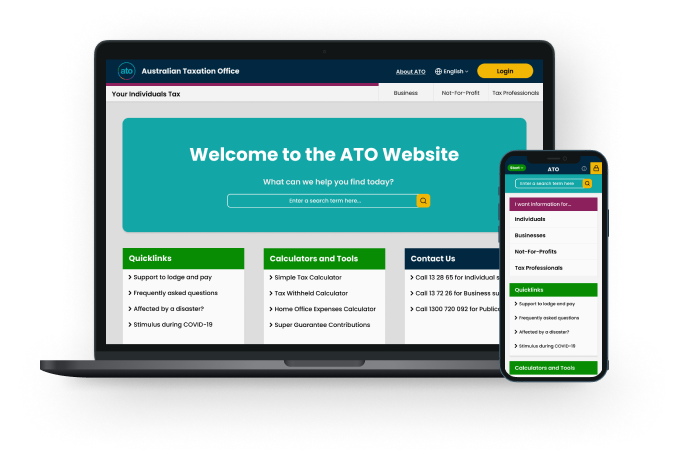
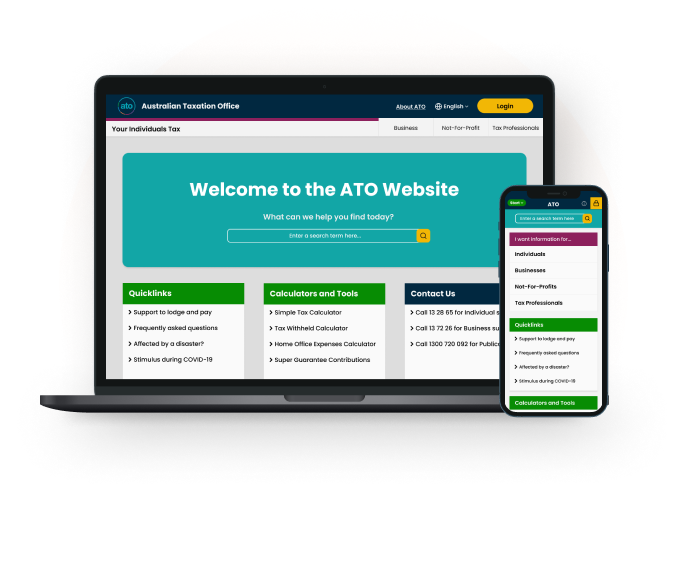
Modified backgrounds

diff --git a/css/style.css b/css/style.css
@@ -20,6 +20,8 @@ h1 {
     font-size: 12vw;
     font-weight: 500;
     line-height: 0;
+    color: #FCF2EC;
+    filter: drop-shadow(0 1vh 1vh rgba(17, 17, 17, 0.1));
 }
 
 h2 {
@@ -30,7 +32,6 @@ h2 {
     font-weight: 500;
     line-height: 0;
     text-align: center;
-    /* color: #00199F; */
 }
 
 h3 {
@@ -96,23 +97,75 @@ p {
     color: #FCF2EC;
 }
 
+.darkSeashell {
+    color: #E5D2C7;
+}
+
+.green {
+    color: #A7CAB3;
+}
+
+.lilac{
+    color: #7988DA;
+}
+
+.black{
+    color:#111111;
+}
+
 /* Logo and Menu */
 .logo {
     position: fixed;
-    top: 8vh;
+    top: 10vh;
     left: 8vh;
+    z-index:99999;
 }
 
-.menu {
+.menuDropdown {
     position: fixed;
-    top: 8vh;
+    top: 10vh;
     right: 10vh;
+    z-index:99999;
+    display: flex;
+    flex-direction: column;
+    align-items: flex-end;
 }
+
+.menuContent {
+    display: none;
+}
+
+.menuDropdown:hover .menuContent {
+    display: block;
+}
+
+.menuContent a {
+    display: flex;
+    flex-direction: column;
+    justify-content: center;
+    align-items: flex-end;
+    padding: 0.5vw 0.5vw 0.5vw 0vw;
+    background-color: rgba(17, 17, 17, 20%);
+    height: 6vh;
+    width: 8vw;
+    font-family: 'Kobe1.1';
+    font-size: 1.7vw;
+    font-weight: 10;
+    line-height: 5%;
+    color: #FCF2EC;
+    text-decoration: none;
+}
+
+.menuContent a:hover,
+.menuContent a:focus {
+    background-color: #00199F;
+}
+
 
 /* Hero Section */
 .heroSection {
     top: 0;
-    background-color: #111111;
+    background-image: linear-gradient(#111111, #2e2b29);
     height: 110vh;
     display: flex;
     justify-content: center;
@@ -138,7 +191,7 @@ p {
     align-items: center;
     height: 50vh;
     width: 80vw;
-    padding-top: 25vh;
+    padding-top: 20vh;
 }
 
 .tabTop {
@@ -202,7 +255,7 @@ p {
 
 button {
     margin-top: 3vh;
-    background-color: #FFF3EC;
+    background-color: #00199F;
     border: 0;
     height: 8vh;
     width: 22vw;
@@ -210,7 +263,6 @@ button {
     font-family: 'HK Grotesk';
     font-size: 1.4vw;
     font-weight: 600;
-    color: #00199F;
     display: flex;
     align-items: center;
     justify-content: center;
@@ -222,7 +274,7 @@ button img {
 
 /* Skills Section */
 .mySkills {
-    background-color: #FCF2EC;
+    background-image: linear-gradient(#D7C6BB, #DBC8BE);
     height: 100vh;
     display: flex;
     flex-direction: column;
@@ -258,7 +310,7 @@ button img {
     align-items: center;
 }
 
-.right{
+.right {
     padding-top: 8vh;
 }
 
@@ -274,7 +326,7 @@ button img {
 
 /* Selected Work */
 .selectedWork {
-    background-color: #FCF2EC;
+    background-image: linear-gradient(#DBC8BE, #E3D0C6);
     height: 15vh;
     padding-top: 12vh;
     padding-bottom: 6vh;
@@ -285,7 +337,7 @@ button img {
 
 /* Case Study A */
 .caseStudyA {
-    background-color: #FCF2EC;
+    background-image: linear-gradient(#E3D0C6, #E4D1C6);
     height: 120vh;
 }
 
@@ -302,11 +354,16 @@ button img {
 .archContent {
     width: 50vw;
     height: 80vh;
-    padding-top: 26vh;
+    padding-top: 20vh;
     display: flex;
     flex-direction: column;
     align-items: center;
     justify-content: center;
+}
+
+.archContent img{
+    margin-top: 3vh;
+    margin-bottom: -12vh;
 }
 
 .devices {
@@ -339,17 +396,23 @@ button img {
 /* Case Study C */
 .caseStudyC {
     background-color: #7988DA;
-    height: 120vh;
+    height: 130vh;
 }
 
 .caseArchC {
     background-color: #00072A;
-    height: 120vh;
+    height: 110vh;
     border-top-left-radius: 100vw;
     border-top-right-radius: 100vw;
     display: flex;
     align-items: flex-start;
     justify-content: center;
+}
+
+.endCase {
+    width: 100vw;
+    height: 20vh;
+    background-color: #00072A;
 }
 
 /* Footer */
@@ -358,7 +421,7 @@ footer {
     height: 100vh;
 }
 
-.footerHero{
+.footerHero {
     height: 65vh;
     display: flex;
     flex-direction: column;
@@ -371,7 +434,7 @@ footer {
     height: auto;
 }
 
-.linksGroup{
+.linksGroup {
     margin-top: 3vh;
     width: 50vw;
     display: flex;
@@ -380,26 +443,26 @@ footer {
     align-items: center;
 }
 
-.link{
+.link {
     display: flex;
     flex-direction: row;
     justify-content: flex-end;
     align-items: center;
 }
 
-footer h6{
+footer h6 {
     margin-top: 1vh;
     margin-right: 0.2vw;
     margin-left: 0.6vw;
 }
 
-footer h7{
+footer h7 {
     margin-bottom: 1.3vh;
     margin-right: 0.2vw;
     margin-left: 0.6vw;
 }
 
-.copyright{
+.copyright {
     width: 95vw;
     display: flex;
     flex-direction: row;

diff --git a/index.html b/index.html
@@ -10,17 +10,16 @@
     <header></header>
 
     <section class="nav">
-        <div class="logo">
-            <img src="images/logo.png" alt="Mai Logo">
-        </div>
-        <div class="menu">
-            <img src="images/menu.png" alt="menu">
-            <!-- <ul>
-                    <li>About Me</li>
-                    <li>Skills</li>
-                    <li>My Work</li>
-                    <li>Contact</li>
-                </ul> -->
+        <a class="logo"><img src="images/logo.png" alt="Mai Logo"></a>
+        <div class="menuDropdown">
+            <img class="menuImg" src="images/menu.png" alt="menu">
+            <div class="menuContent">
+                <a href="aboutMe">About Me</a>
+                <a href="aboutMe">Resumé</a>
+                <a href="skills">Skills</a>
+                <a href="myWork">My Work</a>
+                <a href="contact">Contact</a>
+            </div>
         </div>
     </section>
 
@@ -44,7 +43,7 @@
             <div class="left">
                 <h2>About Me</h2>
                 <img id="headshot" src="images/Mai.png" alt="Mai headshot">
-                <button>Check out my resumé<img src="images/download.png" alt="download"></button>
+                <button class="darkSeashell">Check out my resumé<img src="images/download.png" alt="download"></button>
             </div>
             <div class="right">
                 <p>After working in Robotics and <br> Systems Engineering, I wanted to <br> find more meaning by solving
@@ -102,7 +101,7 @@
             <div class="archContent">
                 <h3>Australian Tax Office </h3>
                 <h3>UI Case Study</h3>
-                <img class="devices" src="images/asrcDevices.png" alt="ASRC Devices Mockup">
+                <img class="devices" src="images/atoDevices.png" alt="ASRC Devices Mockup">
                 <h6>Simplifying a government website’s </h6>
                 <h6>information architecture and navigation </h6>
                 <h6>for desktop and mobile sites </h6>
@@ -123,7 +122,9 @@
                 <img class="rightArrow" src="images/rightArrow.png" alt="right arrow">
             </div>
         </div>
+        <div class="endCase"></div>
     </section>
+
 
     <footer>
         <div class="footerHero">
@@ -152,6 +153,6 @@
             <h7>Copyright Mai Nguyen 2022</h7>
         </div>
     </footer>
+<script src="js/index.js"></script>
 </body>
-
 </html>
